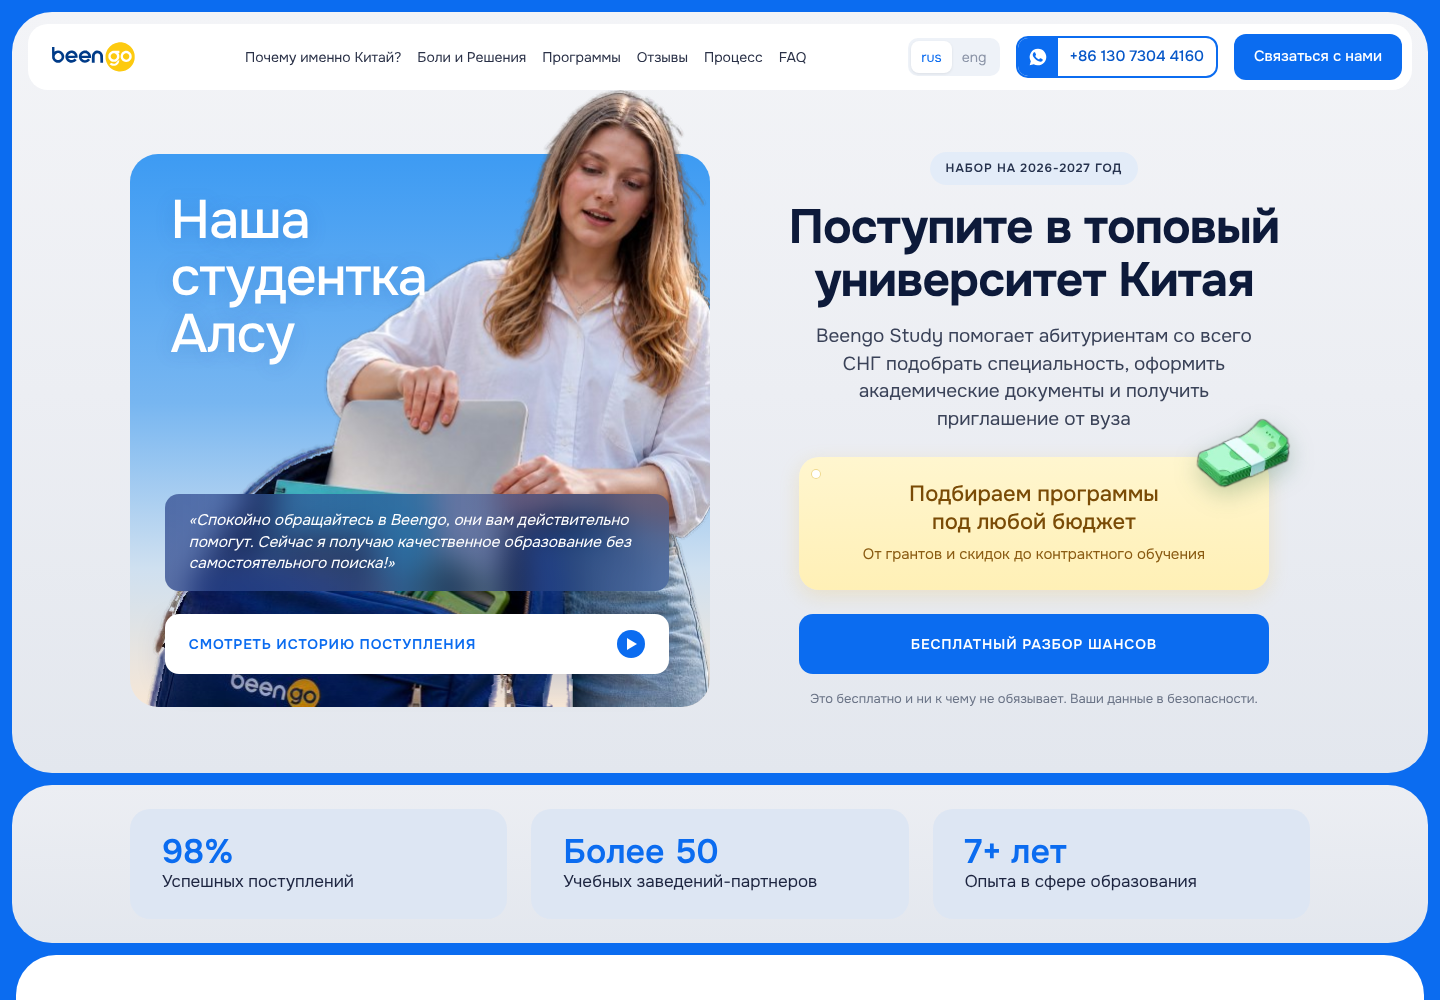
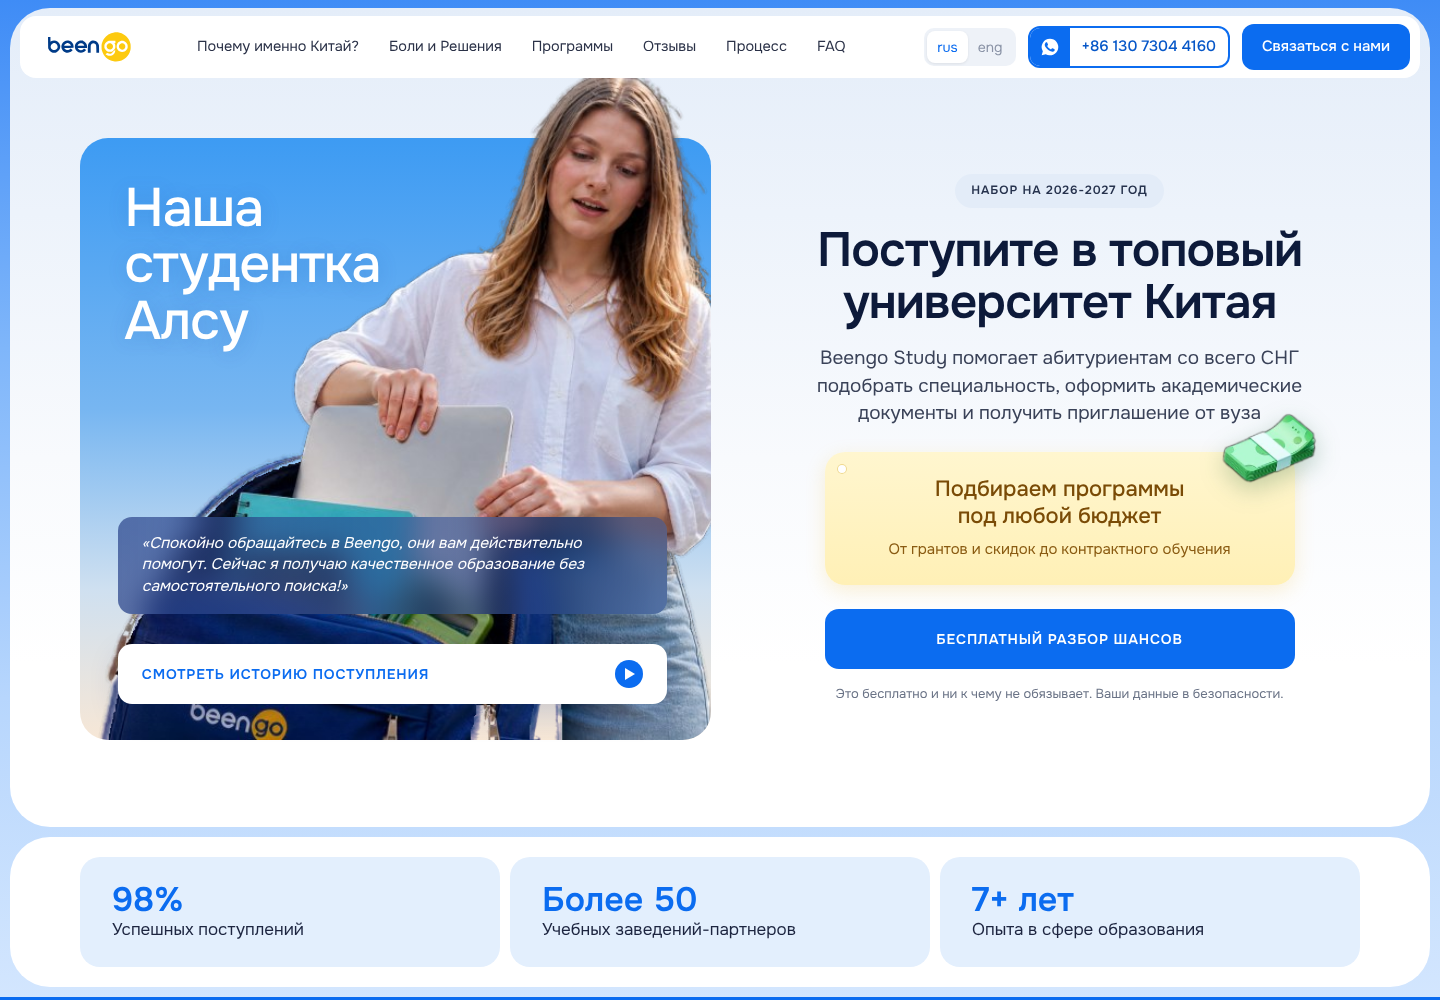
Hero matched to Figma: gradients, white stats panel, left-aligned menu
Claude-Session: https://claude.ai/code/session_01DveQThDXrjAqWsCdBVYsEN

diff --git a/index.html b/index.html
@@ -684,6 +684,38 @@ section{padding:var(--section) 0}
 /* фон всей страницы — синий, как в макете */
 body{background:#0b6cf0}
 #checklist.sec{background:linear-gradient(180deg,#ffffff 0%,#e8f0ff 16%,#c9dcff 34%,#a3c3ff 52%,#7aa6fb 68%,#5288f2 84%,#3366ea 100%)}
+
+/* ===== Первый экран — точно по макету ===== */
+.hero{background:linear-gradient(180deg,#3f8cf6 0%,#7fb6fa 35%,#b7d6fd 70%,#d3e6fe 100%);padding:8px 0 10px}
+.hero-panel{width:calc(100% - 20px);border-radius:40px;background:linear-gradient(180deg,#e4edf9 0%,#edf3fb 25%,#f8fafd 55%,#ffffff 80%);padding:clamp(110px,9vw,130px) 0 clamp(64px,6vw,88px)}
+.stats-panel{width:calc(100% - 20px);margin-top:10px;border-radius:40px;background:#fff;padding:20px 0}
+.stat{background:#e3effd;border-radius:20px}
+.hero .stats{gap:10px}
+.hero .container{width:min(1280px,100% - 48px)}
+.header{padding-top:16px}
+.header .container{width:calc(100% - 40px);max-width:none}
+.header .nav{border-radius:16px;padding:8px 10px 8px 28px;box-shadow:none}
+.menu{justify-content:flex-start;margin-left:48px;gap:6px}
+.menu a{padding:11px 16px;border-radius:10px;font-size:14.5px}
+.menu a:hover,.menu a.active{background:#e8f1fc}
+@media (max-width:1300px){.menu{margin-left:16px;gap:0}.menu a{padding:10px 10px;font-size:13.5px}}
+@media (max-width:680px){
+  .hero{padding:8px 0}
+  .hero-panel,.stats-panel{width:calc(100% - 16px);border-radius:28px}
+  .hero-panel{padding:92px 0 var(--s5)}
+  .stats-panel{margin-top:8px;padding:12px 0}
+  .header{padding-top:16px}
+  .header .container{width:calc(100% - 32px)}
+  .header .nav{padding:8px 8px 8px 16px}
+  .hero .container{width:calc(100% - 32px)}
+}
+
+.menu{margin-left:40px;gap:2px;min-width:0}
+.menu a{padding:11px 14px}
+.header .nav{gap:12px}
+.hero h1{font-weight:600}
+.hero-text>p{max-width:520px}
+@media (max-width:1300px){.menu{margin-left:12px}.menu a{padding:10px 9px}}
 </style>
 </head>
 <body>
